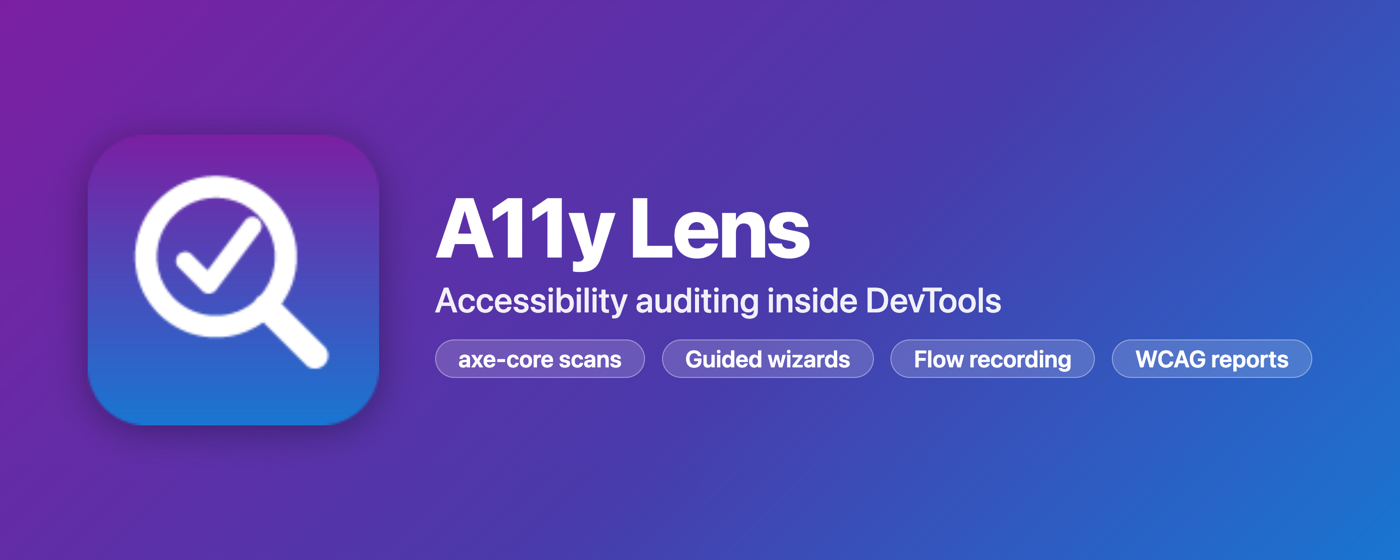
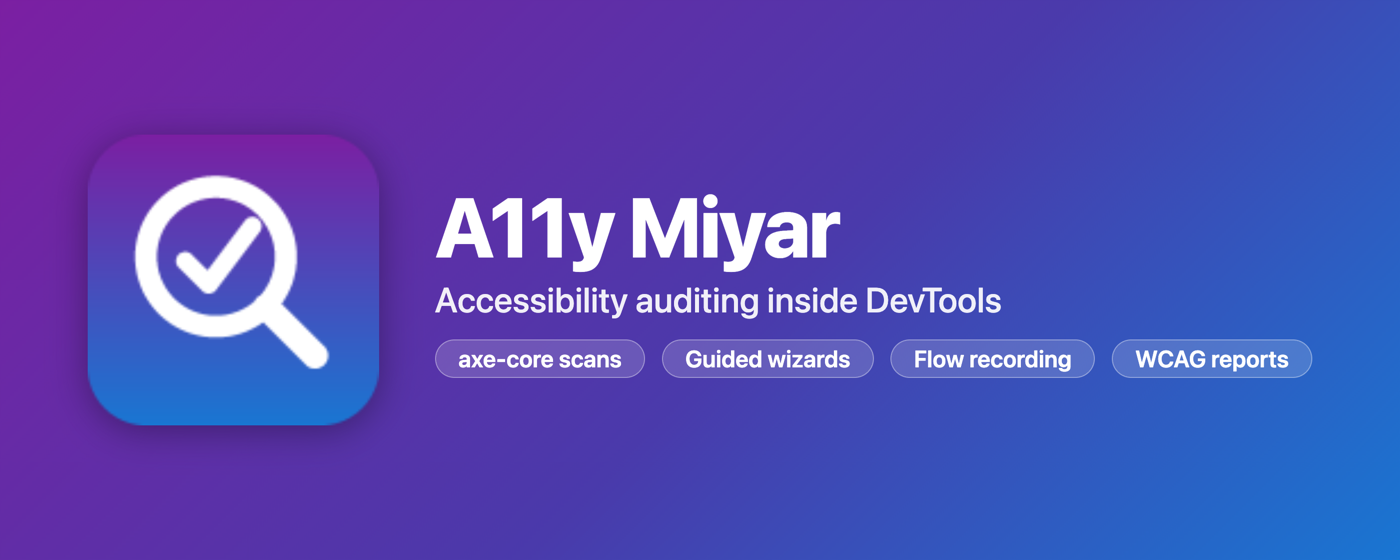
v1.13.0: rebrand to A11y Miyar
"A11y Lens" collides with an established commercial extension of the
same name (a11ylens.com). New name keeps a11y discoverability and adds
a unique, meaningful Arabic identity (ميعار/معيار — "the standard"),
fitting a WCAG + UAE DLS conformance tool.

- Brand renamed across manifest, panel, popup, options, reports,
  exports (file prefix a11y-miyar-), help content, store docs, CI
- Store name: "A11y Miyar — Accessibility & UAE DLS Audits" (43 chars)
- Promo tiles regenerated with the new name
- Extension IDs preserved: Chrome ID unchanged (same listing/key),
  AMO gecko id a11y-lens@engagendy.dev intentionally NOT changed

Changed region(s): [[0.4607, 0.3339, 0.6143, 0.4857]]

diff --git a/panel.js b/panel.js
@@ -1414,7 +1414,7 @@ function manualResultsForExport() {
 
 async function exportReport(format) {
   if (!lastReport) return;
-  const base = "a11y-lens-" + safeName(lastReport.url) + "-" +
+  const base = "a11y-miyar-" + safeName(lastReport.url) + "-" +
     lastReport.scannedAt.slice(0, 19).replace(/[:T]/g, "-");
   if (format === "json") {
     const payload = { ...withSuggestions(lastReport), manualTests: manualResultsForExport(), dls: lastDlsExport };
@@ -1677,9 +1677,9 @@ function toHtml(report, shot, dlsShot) {
     </section>`).join("");
 
   return `<!DOCTYPE html>
-<html lang="en"><head><meta charset="utf-8"><meta name="color-scheme" content="light"><base target="_blank"><title>A11y Lens report — ${escHtml(report.url)}</title></head>
+<html lang="en"><head><meta charset="utf-8"><meta name="color-scheme" content="light"><base target="_blank"><title>A11y Miyar report — ${escHtml(report.url)}</title></head>
 <body style="font:14px/1.5 system-ui,sans-serif;max-width:900px;margin:30px auto;padding:0 16px;background:#fff;color:#1a1a1a">
-  <h1 style="font-size:22px">🔍 A11y Lens report</h1>
+  <h1 style="font-size:22px">🔍 A11y Miyar report</h1>
   <p><b>Page:</b> ${escHtml(report.url)}<br>
      <b>Scanned:</b> ${escHtml(report.scannedAt)}<br>
      <b>Rule set:</b> ${escHtml(report.ruleSet)}</p>
@@ -1695,7 +1695,7 @@ function toHtml(report, shot, dlsShot) {
   ${sections || "<p>🎉 No violations found by automated checks.</p>"}
   ${manualSectionHtml()}
   ${dlsSectionHtml(dlsShot)}
-  <hr><p style="color:#999;font-size:12px">Generated by A11y Lens (axe-core). Automated checks cover only part of WCAG — manual testing still required.</p>
+  <hr><p style="color:#999;font-size:12px">Generated by A11y Miyar (axe-core). Automated checks cover only part of WCAG — manual testing still required.</p>
 </body></html>`;
 }
 
@@ -1801,7 +1801,7 @@ const HELP_TOPICS = [
   },
   {
     icon: "🔭", title: "WCAG 3.0 readiness",
-    what: "WCAG 3.0 ('Silver') is still a W3C draft — no tool can legitimately test against it yet, and axe-core has no WCAG 3 rules because the success criteria aren't final. A11y Lens tracks the stable standards (WCAG 2.0/2.1/2.2, which remain the legal basis worldwide) and will add WCAG 3 scoring when the standard and axe-core support land.",
+    what: "WCAG 3.0 ('Silver') is still a W3C draft — no tool can legitimately test against it yet, and axe-core has no WCAG 3 rules because the success criteria aren't final. A11y Miyar tracks the stable standards (WCAG 2.0/2.1/2.2, which remain the legal basis worldwide) and will add WCAG 3 scoring when the standard and axe-core support land.",
     benefit: "You can't be caught out: everything this tool reports maps to the standards auditors and regulations actually use today. WCAG 2.2 AA conformance is also the expected on-ramp to WCAG 3 — nothing you fix now is wasted.",
     example: "A client asks 'are we WCAG 3 ready?'. The honest answer this tool supports: 'WCAG 3 is a draft; we conform to WCAG 2.2 AA, which is the current requirement and the foundation WCAG 3 builds on.'",
   },
@@ -2011,7 +2011,7 @@ const HELP_AR = {
   },
   "WCAG 3.0 readiness": {
     title: "الجاهزية لـ WCAG 3.0",
-    what: "لا يزال WCAG 3.0 («سيلفر») مسودة لدى W3C — لا أداة تستطيع الفحص وفقه شرعياً بعد، وليس في axe-core قواعد WCAG 3 لأن معايير النجاح لم تُعتمد. تتبع A11y Lens المعايير المستقرة (WCAG 2.0/2.1/2.2 وهي الأساس القانوني عالمياً) وستضيف WCAG 3 عند اعتماده ودعمه في axe-core.",
+    what: "لا يزال WCAG 3.0 («سيلفر») مسودة لدى W3C — لا أداة تستطيع الفحص وفقه شرعياً بعد، وليس في axe-core قواعد WCAG 3 لأن معايير النجاح لم تُعتمد. تتبع A11y Miyar المعايير المستقرة (WCAG 2.0/2.1/2.2 وهي الأساس القانوني عالمياً) وستضيف WCAG 3 عند اعتماده ودعمه في axe-core.",
     benefit: "لن تُفاجأ: كل ما تبلغ عنه الأداة يطابق المعايير التي يعتمدها المدققون والأنظمة اليوم، ومطابقة WCAG 2.2 AA هي الممر المتوقع نحو WCAG 3 — لا شيء تصلحه الآن يضيع.",
     example: "يسأل عميل «هل نحن جاهزون لـ WCAG 3؟». الإجابة الأمينة التي تدعمها الأداة: «WCAG 3 مسودة؛ نطابق WCAG 2.2 AA وهو المطلوب حالياً والأساس الذي يبني عليه WCAG 3».",
   },
@@ -2494,6 +2494,6 @@ async function exportDls(format) {
   if (format === "pdf") {
     window.open(URL.createObjectURL(new Blob([html], { type: "text/html" })));
   } else {
-    download("a11y-lens-dls-" + safeName(url) + ".html", "text/html", html);
+    download("a11y-miyar-dls-" + safeName(url) + ".html", "text/html", html);
   }
 }

diff --git a/background.js b/background.js
@@ -1,4 +1,4 @@
-// A11y Lens background service worker.
+// A11y Miyar background service worker.
 // DevTools panel pages cannot use EXT.scripting or EXT.storage directly —
 // the panel sends {op, tabId, ...} messages here and this worker does the work.
 
@@ -126,7 +126,7 @@ function highlightAllInPage(list) {
     const el = deepQ(sel);
     if (el) {
       el.setAttribute("data-a11y-lens", impact);
-      el.setAttribute("data-a11y-lens-sel", sel);
+      el.setAttribute("data-a11y-miyar-sel", sel);
       el.style.setProperty("outline", `3px solid ${colors[impact]}`, "important");
       el.style.setProperty("outline-offset", "1px", "important");
     }
@@ -142,13 +142,13 @@ function highlightAllInPage(list) {
   for (const type of ["pointerdown", "mousedown", "auxclick", "click"]) {
     const fn = (e) => {
       const path = e.composedPath ? e.composedPath() : [e.target];
-      const hit = path.find((n) => n && n.getAttribute && n.hasAttribute("data-a11y-lens-sel"));
+      const hit = path.find((n) => n && n.getAttribute && n.hasAttribute("data-a11y-miyar-sel"));
       if (!hit) return;
       e.preventDefault();
       e.stopImmediatePropagation();
       // preventDefault on pointerdown suppresses the compatibility click event,
       // so record on whichever event arrives first.
-      window.__a11yLensClicked = hit.getAttribute("data-a11y-lens-sel");
+      window.__a11yLensClicked = hit.getAttribute("data-a11y-miyar-sel");
     };
     window.__a11yLensRevHandlers[type] = fn;
     window.addEventListener(type, fn, true);
@@ -168,7 +168,7 @@ function clearInPage() {
     el.style.removeProperty("outline-offset");
   });
   document.querySelectorAll(".__a11y_lens_overlay").forEach((el) => el.remove());
-  document.querySelectorAll("[data-a11y-lens-sel]").forEach((el) => el.removeAttribute("data-a11y-lens-sel"));
+  document.querySelectorAll("[data-a11y-miyar-sel]").forEach((el) => el.removeAttribute("data-a11y-miyar-sel"));
   if (window.__a11yLensRevHandlers) {
     for (const [type, fn] of Object.entries(window.__a11yLensRevHandlers)) {
       window.removeEventListener(type, fn, true);
@@ -777,7 +777,7 @@ function dlsHighlightInPage(data) {
     if (count >= MAX || !el.getClientRects().length) return;
     count++;
     el.setAttribute("data-a11y-lens", "dls");
-    el.setAttribute("data-a11y-lens-sel", "dls:" + cssPathRev(el));
+    el.setAttribute("data-a11y-miyar-sel", "dls:" + cssPathRev(el));
     el.style.setProperty("outline", "3px dashed #b68a35", "important");
     el.style.setProperty("outline-offset", "2px", "important");
     const r = el.getBoundingClientRect();
@@ -876,13 +876,13 @@ function dlsHighlightInPage(data) {
   for (const type of ["pointerdown", "mousedown", "auxclick", "click"]) {
     const fn = (e) => {
       const path = e.composedPath ? e.composedPath() : [e.target];
-      const hit = path.find((n) => n && n.getAttribute && n.hasAttribute("data-a11y-lens-sel"));
+      const hit = path.find((n) => n && n.getAttribute && n.hasAttribute("data-a11y-miyar-sel"));
       if (!hit) return;
       e.preventDefault();
       e.stopImmediatePropagation();
       // preventDefault on pointerdown suppresses the compatibility click event,
       // so record on whichever event arrives first.
-      window.__a11yLensClicked = hit.getAttribute("data-a11y-lens-sel");
+      window.__a11yLensClicked = hit.getAttribute("data-a11y-miyar-sel");
     };
     window.__a11yLensRevHandlers[type] = fn;
     window.addEventListener(type, fn, true);

diff --git a/panel.html b/panel.html
@@ -12,7 +12,7 @@
         <option value="dls">DLS only</option>
       </select>
       <button id="scanBtn">▶ Scan this page</button>
-      <button id="flowBtn" title="Record a user flow: navigate and interact while A11y Lens scans every step and aggregates unique findings">⏺ Record flow</button>
+      <button id="flowBtn" title="Record a user flow: navigate and interact while A11y Miyar scans every step and aggregates unique findings">⏺ Record flow</button>
       <button id="helpBtn" class="help-btn" title="Help — what every feature does, with examples">?</button>
       <button id="optionsBtn" class="help-btn" title="Open extension options (defaults, language, AI key)">⚙</button>
       <select id="levelSelect" title="Which rule set to run">
@@ -109,7 +109,7 @@
     </main>
 
     <main id="help" hidden>
-      <p class="empty">Every A11y Lens feature, what it's for, and a concrete example of when it helps.</p>
+      <p class="empty">Every A11y Miyar feature, what it's for, and a concrete example of when it helps.</p>
       <div id="helpList"></div>
     </main>
 

diff --git a/options.html b/options.html
@@ -2,7 +2,7 @@
 <html>
   <head>
     <meta charset="utf-8" />
-    <title>A11y Lens — Options</title>
+    <title>A11y Miyar — Options</title>
     <style>
       body { font: 14px/1.6 system-ui, sans-serif; max-width: 560px; margin: 40px auto; padding: 0 20px; }
       h1 { font-size: 20px; }
@@ -16,7 +16,7 @@
     </style>
   </head>
   <body>
-    <h1>🔍 A11y Lens — Options</h1>
+    <h1>🔍 A11y Miyar — Options</h1>
 
     <div class="row">
       <label for="level">Default WCAG rule set</label>

diff --git a/popup.html b/popup.html
@@ -11,7 +11,7 @@
     </style>
   </head>
   <body>
-    <h1>🔍 A11y Lens</h1>
-    <p>Open DevTools (<kbd>F12</kbd> or <kbd>⌥⌘I</kbd>) and select the <b>A11y Lens</b> tab, then click <b>Scan this page</b>.</p>
+    <h1>🔍 A11y Miyar</h1>
+    <p>Open DevTools (<kbd>F12</kbd> or <kbd>⌥⌘I</kbd>) and select the <b>A11y Miyar</b> tab, then click <b>Scan this page</b>.</p>
   </body>
 </html>

diff --git a/fixes.js b/fixes.js
@@ -1,4 +1,4 @@
-// A11y Lens fix suggestions. Dependency-free; runs in browser and Node (no DOM used).
+// A11y Miyar fix suggestions. Dependency-free; runs in browser and Node (no DOM used).
 // Wrapped in an IIFE: the panel loads this as a classic script sharing the global
 // scope with panel.js, and top-level helpers (e.g. contrastRatio) would collide.
 (function () {

diff --git a/store/promo.html b/store/promo.html
@@ -33,7 +33,7 @@
   <div class="tile">
     <img class="icon" src="../icons/icon128.png" alt="">
     <div>
-      <h1>A11y Lens</h1>
+      <h1>A11y Miyar</h1>
       <div class="tag">Accessibility auditing inside DevTools</div>
       <div class="chips">
         <span class="chip">axe-core scans</span>

diff --git a/test-page.html b/test-page.html
@@ -1,6 +1,6 @@
 <!DOCTYPE html>
 <html>
-<!-- Intentionally broken page to test A11y Lens. Missing lang attribute (violation). -->
+<!-- Intentionally broken page to test A11y Miyar. Missing lang attribute (violation). -->
 <head>
   <meta charset="utf-8" />
   <!-- Missing <title> is also a violation -->

diff --git a/devtools.js b/devtools.js
@@ -1,3 +1,3 @@
 // Works on Chromium (chrome.*) and Firefox (browser.*, promise-based).
 const EXT = globalThis.browser || globalThis.chrome;
-EXT.devtools.panels.create("A11y Lens", "icons/icon48.png", "panel.html");
+EXT.devtools.panels.create("A11y Miyar", "icons/icon48.png", "panel.html");

diff --git a/README.md b/README.md
@@ -1,4 +1,4 @@
-# A11y Lens 🔍
+# A11y Miyar 🔍
 
 [![Chrome Web Store](https://img.shields.io/chrome-web-store/v/cccmjnbcpcphmijhfmpnnghbdjdjdkcg?label=Chrome%20Web%20Store&color=4285F4)](https://chromewebstore.google.com/detail/a11y-lens/cccmjnbcpcphmijhfmpnnghbdjdjdkcg)
 [![Firefox Add-ons](https://img.shields.io/amo/v/a11y-lens?label=Firefox%20Add-ons&color=FF7139)](https://addons.mozilla.org/en-US/firefox/addon/a11y-lens/)
@@ -10,11 +10,11 @@ A browser extension (Manifest V3) that audits any web page for accessibility iss
 powered by [axe-core](https://github.com/dequelabs/axe-core) — the same open-source
 engine behind axe DevTools.
 
-![A11y Lens demo — scan, fix suggestions with UAE DLS tokens, live preview, DLS audit, Arabic RTL](docs/demo.gif)
+![A11y Miyar demo — scan, fix suggestions with UAE DLS tokens, live preview, DLS audit, Arabic RTL](docs/demo.gif)
 
 ## Features
 
-- **DevTools panel** — a new "A11y Lens" tab inside Chrome DevTools
+- **DevTools panel** — a new "A11y Miyar" tab inside Chrome DevTools
 - **One-click scan** — runs `axe.run()` on the inspected page
 - **Severity summary** — critical / serious / moderate / minor counts + passed checks
 - **Click-to-highlight** — click any flagged HTML snippet to outline and scroll to
@@ -51,7 +51,7 @@ engine behind axe DevTools.
   HTML/CSV/JSON exports now embed the suggested fix for every finding
 - **Shadow DOM support** — findings inside open shadow roots resolve, highlight,
   and auto-fix correctly (`host >>> selector`)
-- **Firefox build** — `./build-firefox.sh` produces `dist/a11y-lens-firefox.zip`
+- **Firefox build** — `./build-firefox.sh` produces `dist/a11y-miyar-firefox.zip`
   (event-page background, gecko id; the contrast eyedropper is Chromium-only)
 - **WCAG 3.0 readiness** — honest status in the Help tab: WCAG 3 is a W3C draft;
   the tool tracks WCAG 2.0/2.1/2.2 and will add WCAG 3 when axe-core does
@@ -104,14 +104,14 @@ engine behind axe DevTools.
 **From source (development):**
 1. Open Chrome and go to `chrome://extensions`
 2. Enable **Developer mode** (toggle, top-right)
-3. Click **Load unpacked** and select this folder (`a11y-lens-extension`)
+3. Click **Load unpacked** and select this folder (`a11y-miyar-extension`)
 4. Firefox: `./build-firefox.sh`, then `about:debugging` → Load Temporary Add-on
 
 ## Use
 
 1. Open any page — or the included `test-page.html` (drag it into Chrome),
    which is full of intentional violations
-2. Open DevTools (`F12` / `⌥⌘I`) and select the **A11y Lens** tab
+2. Open DevTools (`F12` / `⌥⌘I`) and select the **A11y Miyar** tab
    (it may be hidden behind the `»` overflow menu)
 3. Click **▶ Scan this page**
 4. Expand a violation and click an HTML snippet to highlight the element

diff --git a/store/LISTING.md b/store/LISTING.md
@@ -2,7 +2,7 @@
 
 ## Basic info
 
-- **Name:** A11y Lens — Accessibility Checker
+- **Name:** A11y Miyar — Accessibility Checker
 - **Category:** Developer Tools
 - **Language:** English
 
@@ -17,7 +17,7 @@ recording, contrast checker & exportable reports.
 ## Detailed description
 
 ```
-A11y Lens is a complete accessibility auditing toolkit that lives inside your
+A11y Miyar is a complete accessibility auditing toolkit that lives inside your
 browser's DevTools. It combines automated scanning (powered by axe-core, the
 open-source engine behind Lighthouse) with guided manual testing — because
 automated tools alone catch only 30–50% of WCAG issues.
@@ -76,7 +76,7 @@ PRIVACY
 Everything runs locally in your browser. No data is collected, transmitted,
 or sold — scan results and settings never leave your machine.
 
-A11y Lens uses the axe-core engine (© Deque Systems, MPL-2.0). This extension
+A11y Miyar uses the axe-core engine (© Deque Systems, MPL-2.0). This extension
 is not affiliated with or endorsed by Deque Systems. "axe" is a trademark of
 Deque Systems, Inc.
 ```

diff --git a/ci/README.md b/ci/README.md
@@ -1,6 +1,6 @@
-# A11y Lens — CI companion
+# A11y Miyar — CI companion
 
-Runs the **same axe-core rule sets** as the A11y Lens extension, headlessly via
+Runs the **same axe-core rule sets** as the A11y Miyar extension, headlessly via
 Playwright, and fails the build when new accessibility violations appear.
 The extension becomes your local debugging view for CI failures.
 
@@ -32,7 +32,7 @@ npm run a11y -- --suggest   # also print a suggested fix snippet for each failin
 `--suggest` uses the same fix engine (`fixes.js`) as the extension's DevTools
 panel, so CI output and the panel suggest identical fixes.
 
-Fix flow: CI fails → open the listed page in Chrome/Brave → A11y Lens DevTools
+Fix flow: CI fails → open the listed page in Chrome/Brave → A11y Miyar DevTools
 panel → scan → click the finding to highlight/Inspect → fix → `npm run a11y`
 passes → once old baseline issues are fixed, run `a11y:baseline` again to shrink it.
 
